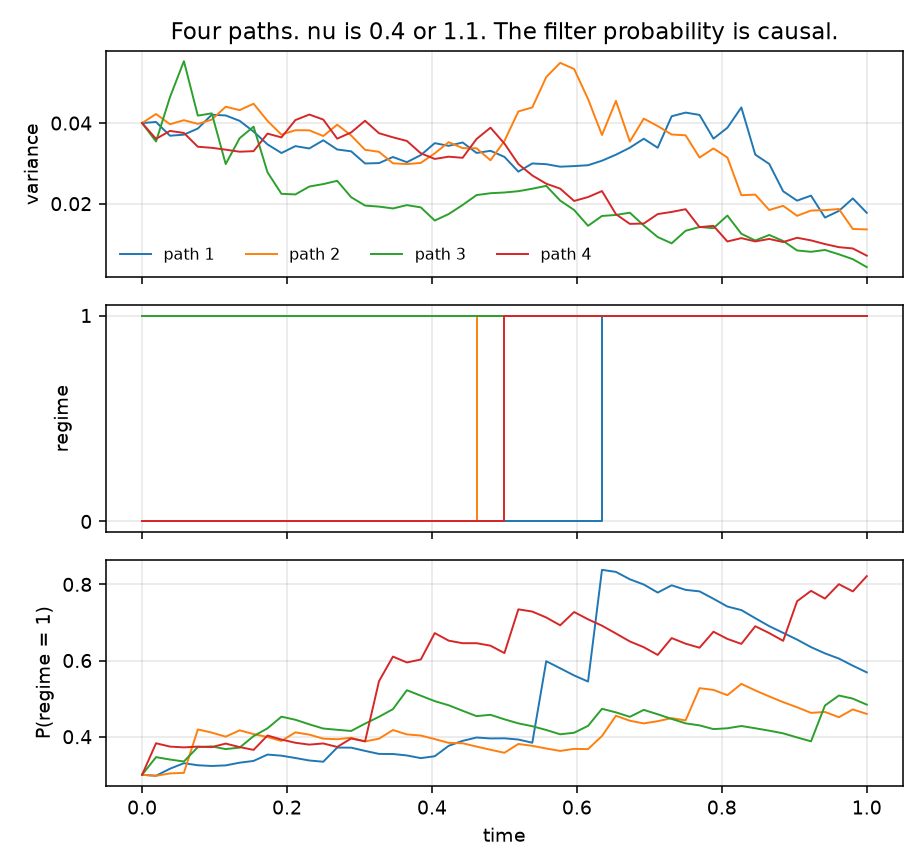
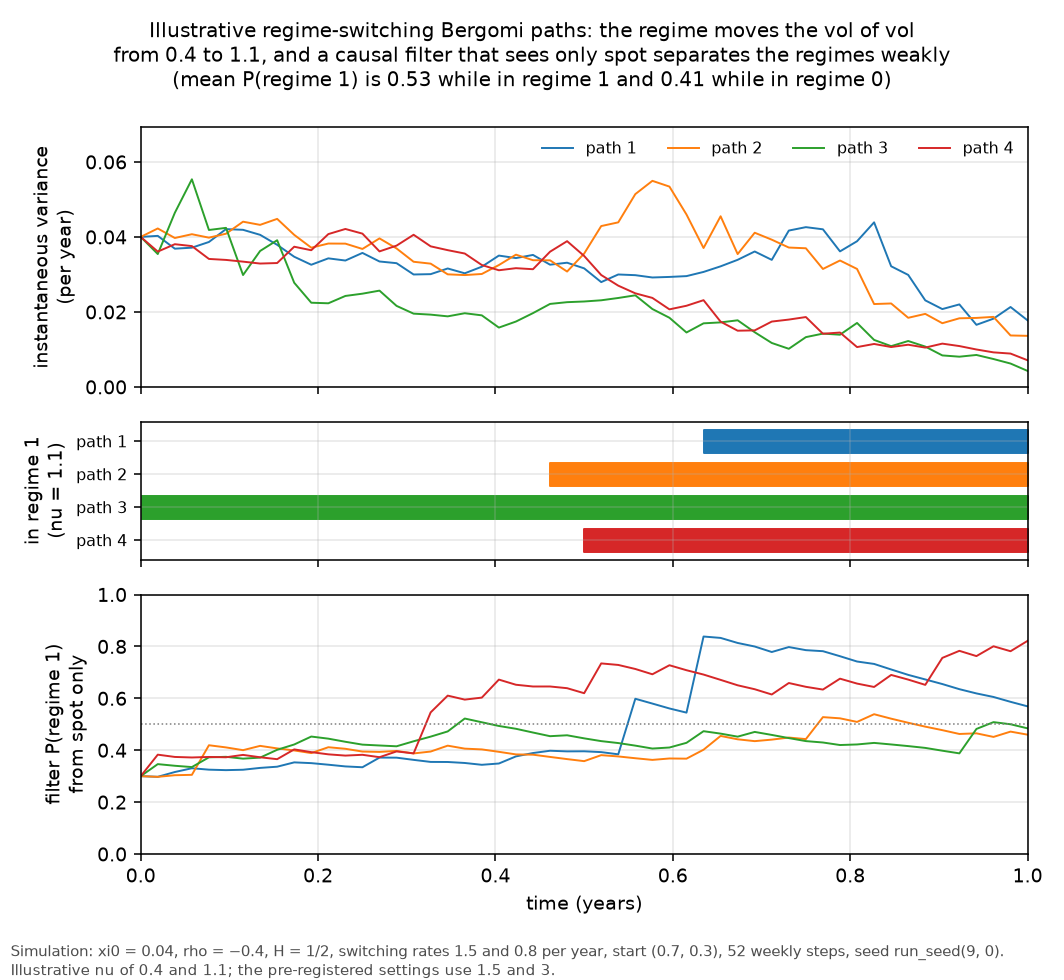
Redraw the regime path and DYSANOS PCA figures (#29)
Takeaway titles, units, simulation settings in the caption and legends that explain the marks. p3f gives each path its own regime strip and labels nu = 0.4/1.1 as illustrative, with a How to read paragraph in docs/notes/p3f_market_paths.md. p3g drops the offset-axis panel and states its 100.00% share in the title. All numbers unchanged on rerun.

Changed region(s): [[0.0, 0.0, 1.0, 1.0], [0.7576, 0.871, 0.8182, 0.9332]]

diff --git a/scripts/figures_p3f.py b/scripts/figures_p3f.py
@@ -172,21 +172,63 @@ def main() -> None:
     for key, value in summary.items():
         print(f"{key}: {value}")
 
-    fig, axes = plt.subplots(3, 1, figsize=(6.6, 6.2), sharex=True)
+    prob = paths.regime_prob[:, :, 1]
+    high = paths.regime == 1
+    in_high = float(prob[high].mean()) if high.any() else float("nan")
+    in_low = float(prob[~high].mean()) if (~high).any() else float("nan")
+    print(f"figure: mean P(regime 1) in regime 1 {in_high:.4f}, in regime 0 {in_low:.4f}")
+
+    # Illustrative settings (market-test nu of 0.4 and 1.1 with H = 1/2), not the
+    # pre-registered nu of 1.5 and 3. Regimes are drawn as one strip per path so
+    # the four step functions do not sit on top of each other.
+    fig, axes = plt.subplots(
+        3, 1, figsize=(7.6, 7.0), sharex=True, gridspec_kw={"height_ratios": [3, 1.6, 3]}
+    )
     for i in range(4):
-        axes[0].plot(times, paths.state["v"][i], lw=1.0, label=f"path {i + 1}")
-        axes[1].step(times, paths.regime[i], where="post", lw=1.0)
-        axes[2].plot(times, paths.regime_prob[i, :, 1], lw=1.0)
-    axes[0].set_ylabel("variance")
-    axes[0].set_title("Four paths. nu is 0.4 or 1.1. The filter probability is causal.")
-    axes[0].legend(frameon=False, fontsize=8, ncol=4)
-    axes[1].set_ylabel("regime")
-    axes[1].set_yticks([0, 1])
-    axes[2].set_ylabel("P(regime = 1)")
-    axes[2].set_xlabel("time")
+        colour = f"C{i}"
+        axes[0].plot(times, paths.state["v"][i], lw=1.0, color=colour, label=f"path {i + 1}")
+        spans = []
+        start = None
+        for t in range(times.size):
+            if paths.regime[i, t] == 1 and start is None:
+                start = times[t]
+            if start is not None and (t == times.size - 1 or paths.regime[i, t + 1] == 0):
+                end = times[t + 1] if t + 1 < times.size else times[-1]
+                spans.append((start, end - start))
+                start = None
+        axes[1].broken_barh(spans, (i - 0.35, 0.7), color=colour)
+        axes[2].plot(times, prob[i], lw=1.0, color=colour)
+    axes[0].set_ylabel("instantaneous variance\n(per year)")
+    axes[0].set_ylim(0.0, 1.25 * float(paths.state["v"].max()))
+    axes[0].legend(frameon=False, fontsize=8, ncol=4, loc="upper right")
+    axes[1].set_yticks(range(4), [f"path {i + 1}" for i in range(4)], fontsize=8)
+    axes[1].set_ylim(3.6, -0.6)
+    axes[1].set_ylabel("in regime 1\n(nu = 1.1)")
+    axes[2].axhline(0.5, color="0.5", ls=":", lw=0.8)
+    axes[2].set_ylim(0.0, 1.0)
+    axes[2].set_ylabel("filter P(regime 1)\nfrom spot only")
+    axes[2].set_xlabel("time (years)")
+    axes[0].set_xlim(times[0], times[-1])
     for axis in axes:
         axis.grid(True, alpha=0.3)
-    fig.tight_layout()
+    fig.suptitle(
+        "Illustrative regime-switching Bergomi paths: the regime moves the vol of vol\n"
+        "from 0.4 to 1.1, and a causal filter that sees only spot separates the regimes "
+        f"weakly\n(mean P(regime 1) is {in_high:.2f} while in regime 1 and {in_low:.2f} "
+        "while in regime 0)",
+        fontsize=10.5,
+    )
+    fig.text(
+        0.01,
+        0.005,
+        "Simulation: xi0 = 0.04, rho = $-0.4$, H = 1/2, switching rates 1.5 and 0.8 per year, "
+        "start (0.7, 0.3), 52 weekly steps, seed run_seed(9, 0).\nIllustrative nu of 0.4 and "
+        "1.1; the pre-registered settings use 1.5 and 3.",
+        fontsize=7.5,
+        color="0.3",
+    )
+    fig.tight_layout(rect=(0, 0.045, 1, 1))
+    fig.subplots_adjust(top=0.87)
     fig.savefig(FIG / "p3f_paths.png", dpi=140)
     plt.close(fig)
 

diff --git a/scripts/figures_p3g.py b/scripts/figures_p3g.py
@@ -174,21 +174,47 @@ def main() -> None:
     print(f"iv_finite_fraction: {float(np.isfinite(history).mean()):.4f}")
     _forward_ratios()
 
-    fig, axes = plt.subplots(1, 2, figsize=(7.2, 3.4))
+    # One panel. The regime check has a single loading per expiry and a share of
+    # 1 to four decimals, so it is reported as text rather than drawn.
     grid = loading_d.reshape(maturities.size, log_k.size)
-    for j in (0, maturities.size // 2, maturities.size - 1):
-        axes[0].plot(log_k, grid[j], lw=1.2, label=f"{int(round(maturities[j] * 252))}d")
-    axes[0].set_xlabel("log-moneyness")
-    axes[0].set_ylabel("first component")
-    axes[0].set_title(f"Minimal DYSANOS IV changes, share {share_d:.2f}.")
-    axes[0].legend(frameon=False, fontsize=8)
-    axes[1].plot(maturities * 252, loading_r, "o-", lw=1.2, ms=4)
-    axes[1].set_xlabel("expiry, business days")
-    axes[1].set_ylabel("first component")
-    axes[1].set_title(f"Regime variance-swap IV, share {share_r:.2f}.")
-    for axis in axes:
-        axis.grid(True, alpha=0.3)
-    fig.tight_layout()
+    # The sign of a principal component is arbitrary. It is flipped for the plot
+    # only, so the CSV keeps the solver's sign.
+    shown = -grid if np.mean(grid) < 0.0 else grid
+    fig, ax = plt.subplots(figsize=(7.4, 5.0))
+    markers = ("o", "s", "^")
+    for marker, j in zip(markers, (0, maturities.size // 2, maturities.size - 1), strict=True):
+        ax.plot(
+            log_k,
+            shown[j],
+            marker=marker,
+            ms=4,
+            lw=1.2,
+            label=f"expiry {int(round(maturities[j] * 252))} business days",
+        )
+    ax.set_xlabel("log-moneyness k = log(K / F)")
+    ax.set_ylabel("first principal component loading\n(unit vector, sign fixed positive)")
+    span = float(shown.max() - shown.min())
+    ax.set_ylim(float(shown.min()) - 0.1 * span, float(shown.max()) + 0.25 * span)
+    ax.legend(frameon=False, fontsize=8, loc="upper right")
+    ax.grid(True, alpha=0.3)
+    fig.suptitle(
+        f"In minimal DYSANOS, one component explains {100 * share_d:.2f}% of implied-vol "
+        "changes,\nand it is close to a level shift: every loading lies between "
+        f"{shown.min():.3f} and {shown.max():.3f},\na little higher at the money "
+        f"(regime variance-swap check: {100 * share_r:.2f}%)",
+        fontsize=10.5,
+    )
+    fig.text(
+        0.01,
+        0.005,
+        f"Synthetic: 4 latent factors, a 40-step path (seed 5), {log_k.size} strikes from "
+        f"$-0.15$ to 0.15, {maturities.size} expiries.\nPCA of step-on-step implied-vol changes "
+        "across all expiries and strikes together.",
+        fontsize=7.5,
+        color="0.3",
+    )
+    fig.tight_layout(rect=(0, 0.05, 1, 1))
+    fig.subplots_adjust(top=0.84)
     fig.savefig(FIG / "p3g_pca.png", dpi=140)
     plt.close(fig)
 

diff --git a/docs/notes/p3f_market_paths.md b/docs/notes/p3f_market_paths.md
@@ -191,6 +191,18 @@ skill 0.1178, calibration error 0.0527. Windowed hit rate 0.7048, skill
 calibration error 0.0338. The windowed skill at clocks 5, 10 and 20 is
 0.2079, 0.2071 and 0.2089.
 
+How to read `p3f_paths.png`. The figure does not use the pre-registered
+settings above. It shows four illustrative paths at the market-test
+settings, `H = 1/2` and `nu` of 0.4 and 1.1, on 52 weekly steps over one
+year. The top panel is the instantaneous variance of each path. The
+middle panel marks the stretch each path spends in regime 1, the high
+vol-of-vol regime. The bottom panel is the spot filter's probability of
+regime 1, which uses only information up to each date. Across these four
+paths that probability averages 0.53 while a path is in regime 1 and 0.41
+while it is in regime 0. The filter leans the right way but separates the
+regimes only weakly, in line with the spot-filter Brier skill near zero
+reported above for the market-test settings.
+
 Constant `nu`, eight runs of 500 paths, clock index 8. The mean forward
 curve after the clock, divided by `xi0`, is 1.019 at `nu = 1.5` and
 1.031 at `nu = 3`. Both pass the z-rule.
